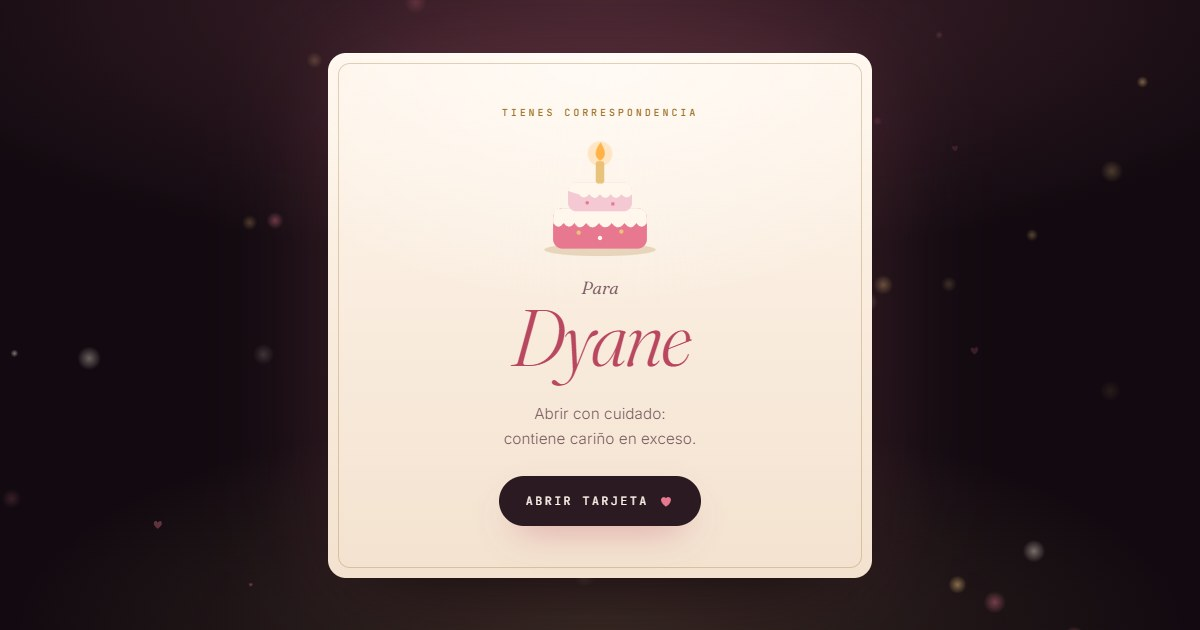
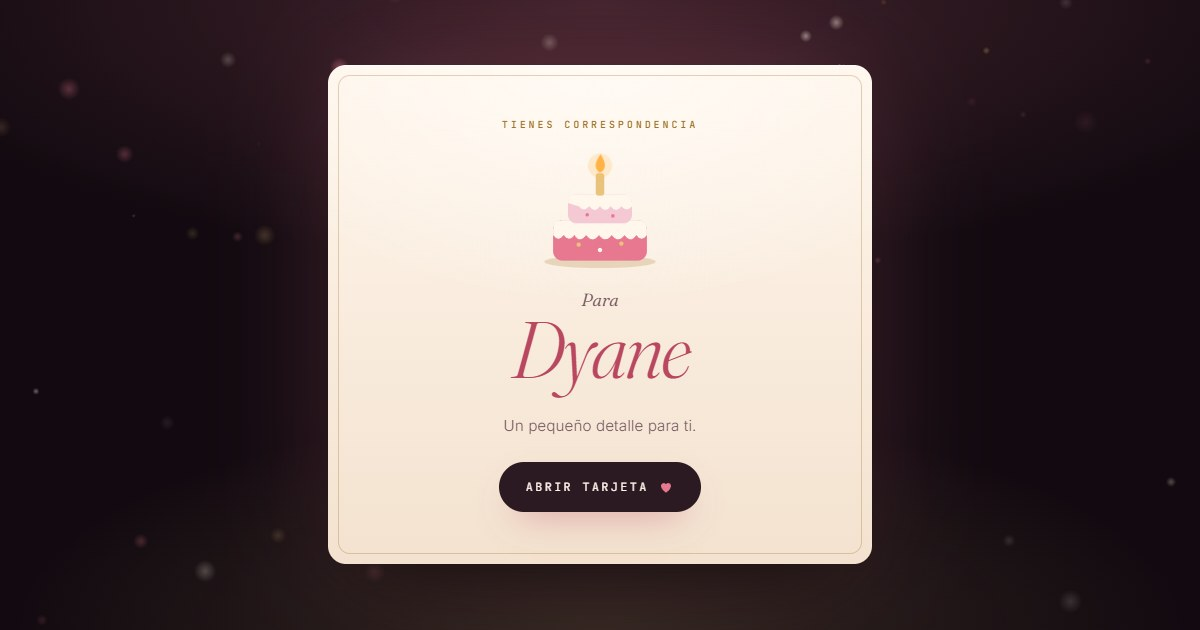
Portada: frase mas sencilla bajo el nombre
Cambia la linea de la tarjeta y de la vista previa del link por
Un pequeno detalle para ti.

diff --git a/src/index.html b/src/index.html
@@ -9,7 +9,7 @@
     <meta name="theme-color" content="#120a10" />
     <meta
       name="description"
-      content="Tienes correspondencia. Abrir con cuidado: contiene cariño en exceso."
+      content="Tienes correspondencia. Un pequeño detalle para ti."
     />
 
     <!-- Vista previa al compartir el link: la imagen necesita URL absoluta. -->
@@ -17,7 +17,7 @@
     <meta property="og:title" content="Para Dyane ♥" />
     <meta
       property="og:description"
-      content="Tienes correspondencia. Abrir con cuidado: contiene cariño en exceso."
+      content="Tienes correspondencia. Un pequeño detalle para ti."
     />
     <meta property="og:image" content="https://alain99-hub.github.io/para-dyane/art/preview.jpg" />
     <meta property="og:image:width" content="1200" />

diff --git a/src/app/data/dossier.data.ts b/src/app/data/dossier.data.ts
@@ -189,7 +189,7 @@ export const BIRTHDAY = {
   envelopeNote: 'Tienes correspondencia',
   to: 'Para',
   name: 'Dyane',
-  frontLine: 'Abrir con cuidado: contiene cariño en exceso.',
+  frontLine: 'Un pequeño detalle para ti.',
   openAction: 'Abrir tarjeta',
   eyebrow: 'Hoy es tu día',
   greeting: '¡Feliz cumpleaños,',
